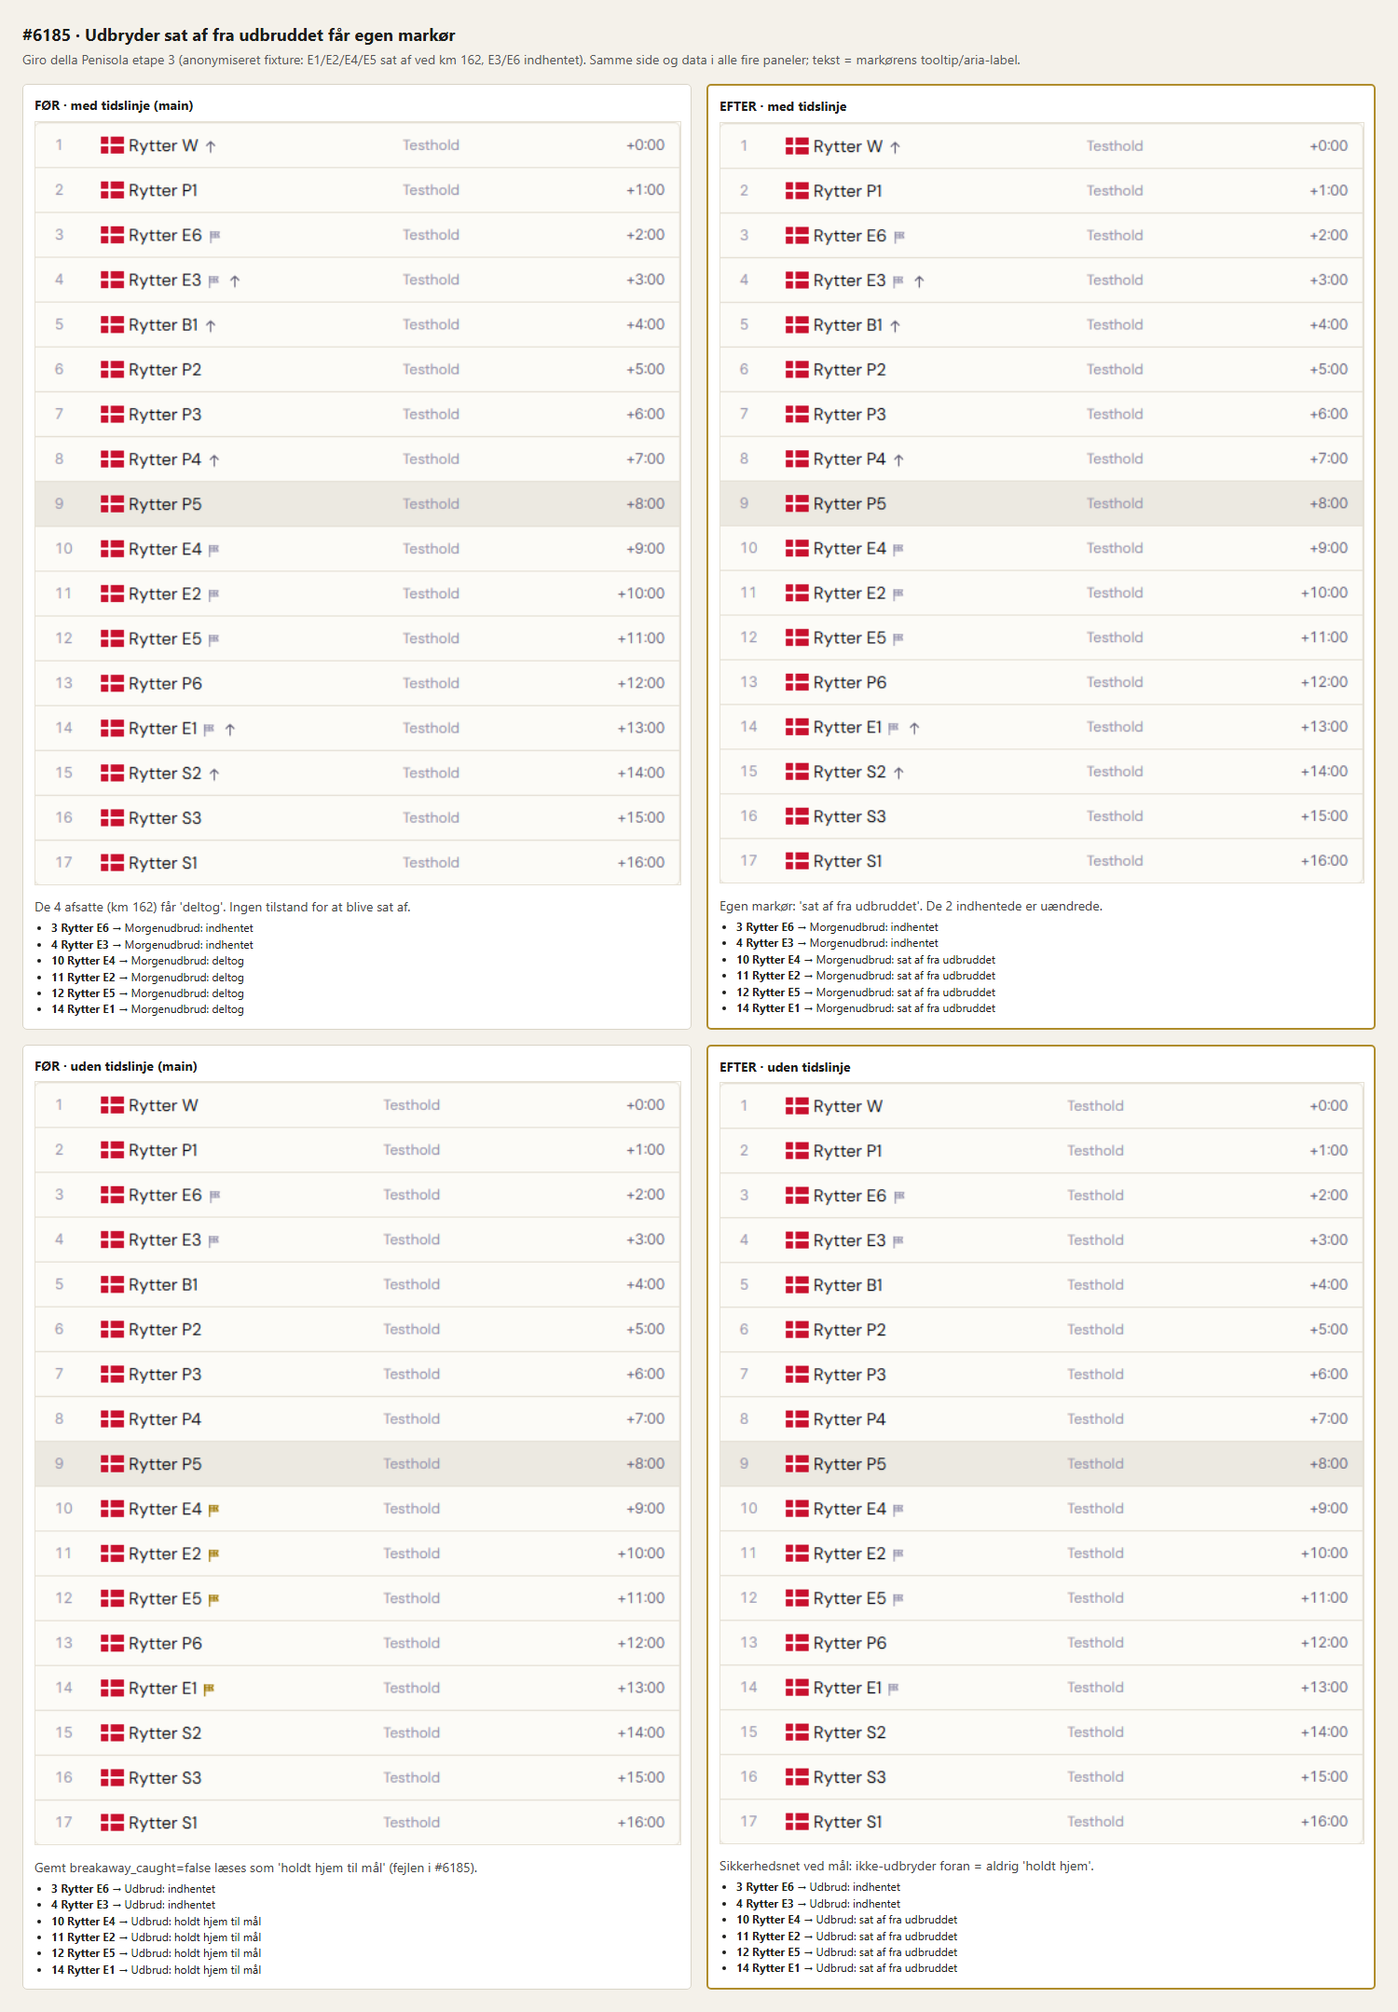
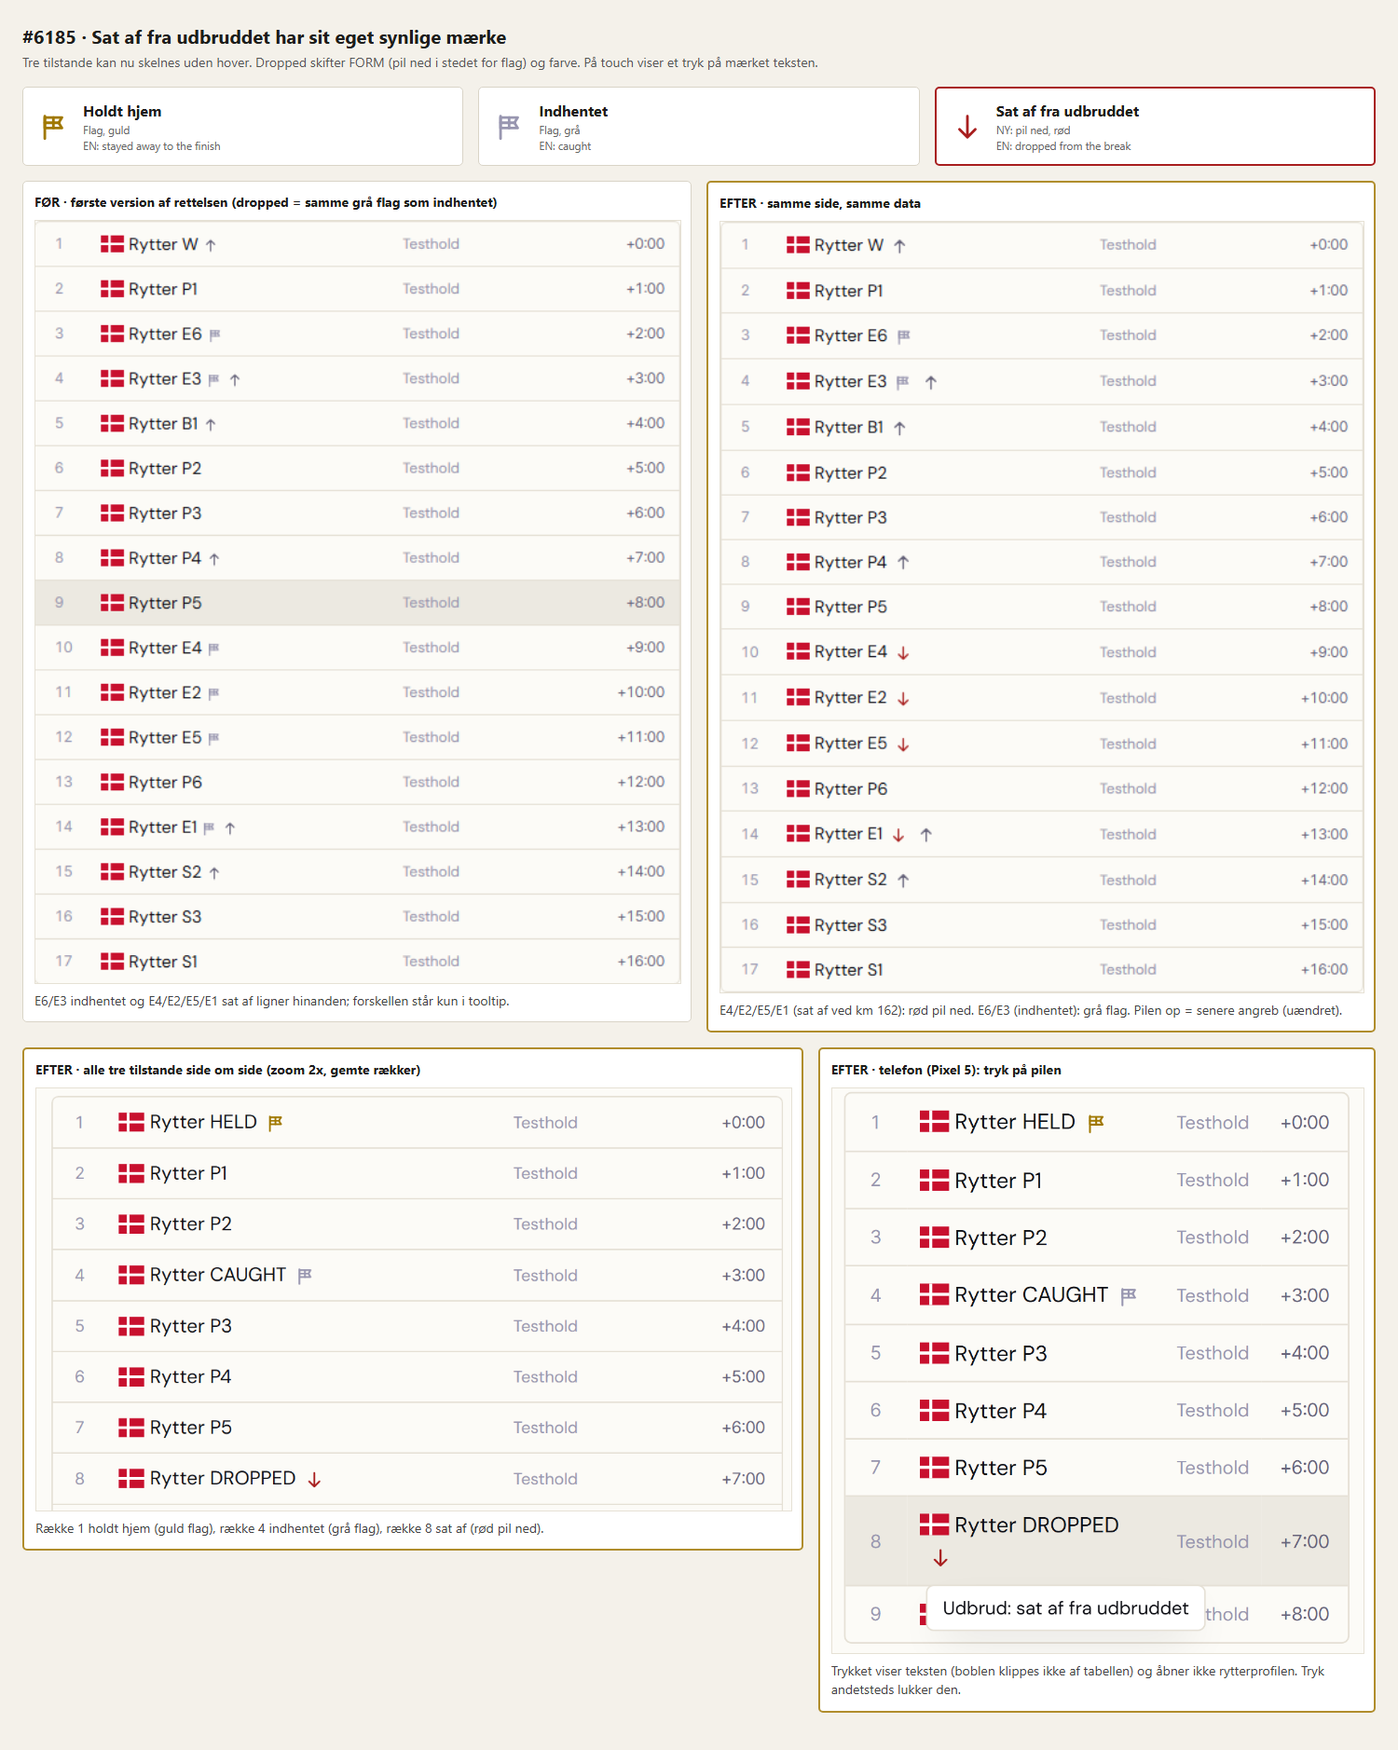
fix(race): "sat af fra udbruddet" faar eget synligt maerke (Refs #6185)
Dropped escapees used the same grey flag as caught, so the three states
(held home / caught / dropped) only differed in the tooltip. Dropped now
has its own icon SHAPE (arrow down, red) next to the gold flag (held home)
and the grey flag (caught). breakawayMarkerState returns icon + tone.

Touch: the marker is focusable and a tap shows its text in a Tooltip-styled
bubble rendered in a Portal (the result table scroller clipped it), without
opening the rider link. Hover and focus still work on desktop. aria-label
is kept. The later-attack marker gets the same tap behaviour.

Tests: unit test for distinct icon/tone/label per state; e2e for the three
states side by side and for tap showing the text inside the viewport.
New before/after image in pr-screens/6185.

diff --git a/frontend/tests/e2e/6185-dropped-breakaway-marker.spec.ts b/frontend/tests/e2e/6185-dropped-breakaway-marker.spec.ts
@@ -19,21 +19,22 @@ const results = riders.map(([id, rank], index) => {
 });
 const timeline = { timeline_version: 2, stage_number: 1, events: PENISOLA_STAGE3_EVENTS };
 
-async function prepareRace(page: Page, { withTimeline }: { withTimeline: boolean }) {
+async function prepareRace(page: Page, { withTimeline, rows = results }: { withTimeline: boolean; rows?: typeof results }) {
   await stabilizePage(page);
   await installNetworkMocks(page);
   await page.route("**/rest/v1/races**", route => {
     const race = { id: "race-6185", name: "Testetape · sat af fra udbruddet", race_type: "stage_race", race_class: "TourFrance", stages: 1, stages_completed: 1, edition_year: 2026, status: "completed", season: { id: "season-6185", number: 1 }, pool_race: null };
     return json(route, (route.request().headers().accept || "").includes("vnd.pgrst.object") ? race : [race]);
   });
-  await page.route("**/rest/v1/race_results**", raceResultsRoute(results));
+  await page.route("**/rest/v1/race_results**", raceResultsRoute(rows));
   await page.route("**/rest/v1/race_stage_profiles**", route => json(route, [{ ...MOUNTAIN_STAGE_PROFILE, stage_number: 1 }]));
   await page.route("**/rest/v1/race_stage_passages**", route => json(route, []));
   await page.route("**/api/races/*/timeline**", route => withTimeline ? json(route, timeline) : route.fulfill({ status: 404, body: "{}" }));
   await login(page);
   await page.goto("/races/race-6185?stage=1");
   await expect(page.getByRole("heading", { name: "Etape 1 · målrækkefølge", exact: true })).toBeVisible();
-  await page.getByRole("button", { name: /^Vis alle/ }).click();
+  const showAll = page.getByRole("button", { name: /^Vis alle/ });
+  if (await showAll.count()) await showAll.click();
 }
 
 test("#6185 dropped escapees get their own marker, never 'held home'", async ({ page }, testInfo) => {
@@ -49,4 +50,67 @@ test("#6185 without a timeline the stored rows still never read as 'held home'",
   await expect(page.locator('[aria-label="Udbrud: sat af fra udbruddet"]')).toHaveCount(4);
   await expect(page.locator('[aria-label="Udbrud: indhentet"]')).toHaveCount(2);
   await expect(page.locator('[aria-label="Udbrud: holdt hjem til mål"]')).toHaveCount(0);
+});
+
+// Held home / caught / dropped, side by side from stored rows (no timeline): one
+// escapee wins, one is caught, one is dropped. Tail rows are plain riders.
+const stateRows = [
+  ["held", 1, { in_breakaway: true, breakaway_caught: false, breakaway_dropped: false }],
+  ["p1", 2, {}], ["p2", 3, {}],
+  ["caught", 4, { in_breakaway: true, breakaway_caught: true }],
+  ["p3", 5, {}], ["p4", 6, {}], ["p5", 7, {}],
+  ["dropped", 8, { in_breakaway: true, breakaway_caught: false, breakaway_dropped: true }],
+  ["p6", 9, {}],
+].map(([id, rank, flags]) => ({
+  id: `s-${id}`, stage_number: 1, result_type: "stage", rank, rider_id: id, rider_name: `Rytter ${String(id).toUpperCase()}`,
+  team_id: "team-x", team_name: "Testhold", finish_time: `+${Number(rank) - 1}:00`, points_earned: 0, prize_money: 0,
+  rider: { id, firstname: "Rytter", lastname: String(id).toUpperCase(), nationality_code: "dk", team: { id: "team-x", name: "Testhold" } },
+  in_breakaway: false, breakaway_caught: false, ...(flags as object),
+})) as typeof results;
+
+test("#6185 held home, caught and dropped differ in icon shape and tone (no hover needed)", async ({ page }, testInfo) => {
+  await prepareRace(page, { withTimeline: false, rows: stateRows });
+  const held = page.locator('[aria-label="Udbrud: holdt hjem til mål"]');
+  const caught = page.locator('[aria-label="Udbrud: indhentet"]');
+  const dropped = page.locator('[aria-label="Udbrud: sat af fra udbruddet"]');
+  await expect(held).toHaveCount(1);
+  await expect(caught).toHaveCount(1);
+  await expect(dropped).toHaveCount(1);
+  const look = (marker: typeof held) => marker.evaluate((el) => ({ color: getComputedStyle(el).color, shape: el.querySelector("svg path")!.getAttribute("d") }));
+  const [h, c, d] = [await look(held), await look(caught), await look(dropped)];
+  // Dropped leaves the flag SHAPE (not only the colour); the three tones are all distinct.
+  expect(d.shape).not.toBe(h.shape);
+  expect(d.shape).not.toBe(c.shape);
+  expect(new Set([h.color, c.color, d.color]).size).toBe(3);
+  if (process.env.CZ_REVIEW_SCREENS === "1") {
+    // Zoomed crop of the three rows for the PR before/after image.
+    await page.setViewportSize({ width: 2560, height: 2000 });
+    await page.evaluate(() => { document.body.style.zoom = "2"; });
+    const first = (await page.getByText("Rytter HELD", { exact: true }).boundingBox())!;
+    const last = (await page.getByText("Rytter DROPPED", { exact: true }).boundingBox())!;
+    const docY = await page.evaluate(() => window.scrollY);
+    await page.screenshot({ path: testInfo.outputPath("6185-three-states.png"), fullPage: true, clip: { x: Math.max(0, first.x - 220), y: docY + first.y - 30, width: 1380, height: last.y + last.height - first.y + 60 } });
+  }
+});
+
+test("#6185 a tap on the dropped marker shows its text and does not open the rider", async ({ page }, testInfo) => {
+  await prepareRace(page, { withTimeline: false, rows: stateRows });
+  const url = page.url();
+  const marker = page.locator('[aria-label="Udbrud: sat af fra udbruddet"]');
+  const bubble = page.getByRole("tooltip");
+  await expect(bubble).toHaveCount(0);
+  await marker.click();
+  await expect(marker).toBeFocused();
+  await expect(bubble).toHaveText("Udbrud: sat af fra udbruddet");
+  await expect(bubble).toHaveCSS("opacity", "1");
+  // The bubble is never clipped by the result table: fully inside the viewport.
+  const box = (await bubble.boundingBox())!;
+  const viewport = page.viewportSize()!;
+  expect(box.x).toBeGreaterThanOrEqual(0);
+  expect(box.x + box.width).toBeLessThanOrEqual(viewport.width);
+  expect(page.url()).toBe(url);
+  if (process.env.CZ_REVIEW_SCREENS === "1") await page.screenshot({ path: testInfo.outputPath("6185-tap.png") });
+  // Tapping elsewhere closes it again.
+  await page.getByRole("heading", { name: "Etape 1 · målrækkefølge", exact: true }).click();
+  await expect(bubble).toHaveCount(0);
 });

diff --git a/frontend/src/pages/RaceDetailPage.jsx b/frontend/src/pages/RaceDetailPage.jsx
@@ -14,6 +14,8 @@ import { Flag } from "../components/Flag";
 import {
   FlagIcon,
   ArrowUpIcon,
+  ArrowDownIcon,
+  Portal,
   PageLoader,
   Button,
   CategoryTag,
@@ -35,6 +37,7 @@ import {
 } from "../components/ui";
 import { WRAP, SCROLLER } from "../components/ui/dataTableStyles.js";
 import { buttonClass } from "../components/ui/buttonStyles.js";
+import { tooltipClass } from "../components/ui/tooltipStyles.js";
 import { formatNumber } from "../lib/intl";
 import { resultEntity } from "../lib/raceResultEntity.js";
 import { buildRaceRecap } from "../lib/raceRecap.js";
@@ -199,8 +202,60 @@ function riderName(res) {
   return res.rider_name || "—";
 }
 
+// #6185: ikon-FORM + tone pr. tilstand (klassenavne ordret, så Tailwinds scanner finder dem).
+const BREAKAWAY_MARKER_ICON = { flag: FlagIcon, dropped: ArrowDownIcon };
+const BREAKAWAY_MARKER_TONE = { accent: "text-cz-accent-t", muted: "text-cz-3", danger: "text-cz-danger" };
+
+// #6185: markøren er tap-tilgængelig på touch. Markøren er fokuserbar (tabIndex),
+// så et tryk fokuserer den og viser teksten; hover/fokus virker stadig på desktop.
+// Boblen bruger Tooltip-stilen (tooltipClass) men renderes i en Portal med fixed
+// position (følger markøren ved scroll/resize): resultattabellens scroller klipper
+// ellers boblen (mobil, sidste række).
+// preventDefault stopper at trykket navigerer via RiderLink-ankeret markøren ligger i.
+function MarkerTip({ label, className = "", children }) {
+  const ref = useRef(null);
+  const [pos, setPos] = useState(null);
+  const show = useCallback(() => {
+    const rect = ref.current?.getBoundingClientRect();
+    if (!rect) return;
+    const maxWidth = Math.min(224, window.innerWidth - 16);
+    setPos({ left: Math.max(8, Math.min(rect.left, window.innerWidth - maxWidth - 8)), top: rect.bottom, maxWidth });
+  }, []);
+  const hide = useCallback(() => setPos(null), []);
+  useEffect(() => {
+    if (!pos) return undefined;
+    const onKey = (e) => { if (e.key === "Escape") hide(); };
+    window.addEventListener("scroll", show, true);
+    window.addEventListener("resize", show);
+    document.addEventListener("keydown", onKey);
+    return () => {
+      window.removeEventListener("scroll", show, true);
+      window.removeEventListener("resize", show);
+      document.removeEventListener("keydown", onKey);
+    };
+  }, [pos, show, hide]);
+  return (
+    <span className="ms-1 inline-flex align-middle">
+      <span ref={ref} role="img" tabIndex={0} aria-label={label}
+        onMouseEnter={show} onMouseLeave={hide} onFocus={show} onBlur={hide}
+        onClick={(e) => { e.preventDefault(); e.stopPropagation(); show(); }}
+        className={`inline-flex cursor-help rounded-sm p-0.5 focus:outline-none focus-visible:ring-1 focus-visible:ring-cz-accent ${className}`}>
+        {children}
+      </span>
+      {pos && (
+        <Portal>
+          <span role="tooltip" className={`${tooltipClass({ side: "bottom" })} whitespace-normal`}
+            style={{ position: "fixed", left: pos.left, top: pos.top, right: "auto", bottom: "auto", transform: "none", maxWidth: pos.maxWidth, opacity: 1 }}>
+            {label}
+          </span>
+        </Portal>
+      )}
+    </span>
+  );
+}
+
 // #1499 Deskriptiv udbruds-markør: vises kun for ryttere der var i (morgen-)udbruddet.
-// Holdt hjem (survived) = accent-toned; indhentet (caught) = dæmpet. Tooltip via title.
+// #6185: holdt hjem = accent-flag; indhentet = dæmpet flag; sat af = rød pil ned.
 function BreakawayMarker({ result, t, history = null }) {
   const participation = participationForResult(result, history);
   if (!participation) return null;
@@ -208,18 +263,18 @@ function BreakawayMarker({ result, t, history = null }) {
   // #6185: tre tilstande (indhentet / sat af / holdt hjem) — se breakawayMarkerState.
   const markerState = breakawayMarkerState(participation);
   const label = t(markerState.labelKey);
+  const StateIcon = BREAKAWAY_MARKER_ICON[markerState.icon] ?? FlagIcon;
   return (
     <>
       {participation.morning && (
-        <span className={`ms-1 inline-flex align-middle ${markerState.muted ? "text-cz-3" : "text-cz-accent-t"}`}
-          title={`${markerLabel}: ${label}`} aria-label={`${markerLabel}: ${label}`}>
-          <FlagIcon size={13} aria-hidden="true" />
-        </span>
+        <MarkerTip label={`${markerLabel}: ${label}`} className={BREAKAWAY_MARKER_TONE[markerState.tone]}>
+          <StateIcon size={15} aria-hidden="true" />
+        </MarkerTip>
       )}
       {participation.laterAttack && (
-        <span className="ms-1 inline-flex align-middle text-cz-2" title={t("detail.breakaway.laterAttack")} aria-label={t("detail.breakaway.laterAttack")}>
-          <ArrowUpIcon size={13} aria-hidden="true" />
-        </span>
+        <MarkerTip label={t("detail.breakaway.laterAttack")} className="text-cz-2">
+          <ArrowUpIcon size={15} aria-hidden="true" />
+        </MarkerTip>
       )}
     </>
   );

diff --git a/frontend/src/lib/raceParticipationMarkers.test.ts b/frontend/src/lib/raceParticipationMarkers.test.ts
@@ -51,12 +51,12 @@ test("#6185 anchor: Penisola stage 3 dropped escapees get the dropped marker, ne
     const participation = participationForResult({ rider_id: id, in_breakaway: true, breakaway_caught: false }, history);
     assert.equal(participation?.dropped, true, id);
     assert.equal(participation?.survived, false, id);
-    assert.deepEqual(breakawayMarkerState(participation!), { labelKey: "detail.breakaway.dropped", muted: true });
+    assert.deepEqual(breakawayMarkerState(participation!), { labelKey: "detail.breakaway.dropped", muted: true, icon: "dropped", tone: "danger" });
     assert.deepEqual(participationFlagsForResult({ rider_id: id, in_breakaway: true, breakaway_caught: false }, history!), { in_breakaway: true, breakaway_caught: null, breakaway_dropped: true });
   }
   for (const id of PENISOLA_CAUGHT) {
     const participation = participationForResult({ rider_id: id, in_breakaway: true, breakaway_caught: true }, history);
-    assert.deepEqual(breakawayMarkerState(participation!), { labelKey: "detail.breakaway.caught", muted: true });
+    assert.deepEqual(breakawayMarkerState(participation!), { labelKey: "detail.breakaway.caught", muted: true, icon: "flag", tone: "muted" });
   }
 });
 
@@ -66,7 +66,7 @@ test("#6185 without a timeline a persisted dropped flag still wins over 'held ho
   assert.equal(breakawayMarkerState(legacyDropped!).labelKey, "detail.breakaway.dropped");
   // Not yet assessed (NULL) keeps today's legacy reading.
   const unknown = participationForResult({ rider_id: "x", in_breakaway: true, breakaway_caught: false, breakaway_dropped: null }, null);
-  assert.deepEqual(breakawayMarkerState(unknown!), { labelKey: "detail.breakaway.survived", muted: false });
+  assert.deepEqual(breakawayMarkerState(unknown!), { labelKey: "detail.breakaway.survived", muted: false, icon: "flag", tone: "accent" });
   // A caught row is never relabelled as dropped.
   const caught = participationForResult({ rider_id: "y", in_breakaway: true, breakaway_caught: true, breakaway_dropped: true }, null);
   assert.equal(breakawayMarkerState(caught!).labelKey, "detail.breakaway.caught");
@@ -101,7 +101,7 @@ test("#6185 timeline 'survived' + finish safety net reads as caught, same as the
   assert.equal(breakawayMarkerState(participationForResult(netted, history)!).labelKey, "detail.breakaway.caught");
   // No non-escapee ahead: the engine's verdict stands.
   const held = participationForResult({ rider_id: "morning", in_breakaway: true, breakaway_caught: false, breakaway_dropped: false }, history);
-  assert.deepEqual(breakawayMarkerState(held!), { labelKey: "detail.breakaway.survived", muted: false });
+  assert.deepEqual(breakawayMarkerState(held!), { labelKey: "detail.breakaway.survived", muted: false, icon: "flag", tone: "accent" });
 });
 
 test("#6185 the dropped marker has EN and DA copy", async () => {
@@ -130,4 +130,18 @@ test("#6185 finish safety net on stored rows: uncaught escapee behind a non-esca
   assert.equal(held[0].breakaway_dropped, undefined, "stage 1: held on");
   assert.equal(held[3].breakaway_dropped, true, "stage 2 is its own group");
   assert.deepEqual(withFinishSafetyNet(null), []);
+});
+
+test("#6185 the three marker states differ in icon SHAPE or tone, so they read apart without hover", () => {
+  const base = { morning: true, laterAttack: false, verified: true };
+  const held = breakawayMarkerState({ ...base, caught: false, survived: true, dropped: false });
+  const caught = breakawayMarkerState({ ...base, caught: true, survived: false, dropped: false });
+  const dropped = breakawayMarkerState({ ...base, caught: false, survived: false, dropped: true });
+  assert.notEqual(dropped.icon, held.icon);
+  assert.notEqual(dropped.icon, caught.icon);
+  assert.equal(new Set([held.tone, caught.tone, dropped.tone]).size, 3);
+  assert.equal(new Set([held.labelKey, caught.labelKey, dropped.labelKey]).size, 3);
+  // Only the dropped state leaves the flag shape.
+  assert.equal(held.icon, "flag");
+  assert.equal(caught.icon, "flag");
 });

diff --git a/frontend/src/lib/raceParticipationMarkers.ts b/frontend/src/lib/raceParticipationMarkers.ts
@@ -68,12 +68,21 @@ export function withFinishSafetyNet<T extends RankedResultRow>(rows: readonly T[
   });
 }
 
-/** #6185: which label the morning-break marker shows, and whether it is muted. */
-export function breakawayMarkerState(participation: ResultParticipation): { labelKey: string; muted: boolean } {
-  if (participation.caught) return { labelKey: "detail.breakaway.caught", muted: true };
-  if (participation.dropped) return { labelKey: "detail.breakaway.dropped", muted: true };
-  if (participation.verified && !participation.survived) return { labelKey: "detail.breakaway.participated", muted: true };
-  return { labelKey: "detail.breakaway.survived", muted: false };
+export type BreakawayMarkerIcon = "flag" | "dropped";
+export type BreakawayMarkerTone = "accent" | "muted" | "danger";
+export type BreakawayMarkerState = { labelKey: string; muted: boolean; icon: BreakawayMarkerIcon; tone: BreakawayMarkerTone };
+
+/**
+ * #6185: which label, icon and tone the morning-break marker shows. "Dropped
+ * from the break" has its own icon SHAPE (arrow down, not the flag) and the
+ * danger tone, so held home / caught / dropped read apart without hover and
+ * on touch. Held home = accent flag, caught = muted flag, dropped = red arrow.
+ */
+export function breakawayMarkerState(participation: ResultParticipation): BreakawayMarkerState {
+  if (participation.caught) return { labelKey: "detail.breakaway.caught", muted: true, icon: "flag", tone: "muted" };
+  if (participation.dropped) return { labelKey: "detail.breakaway.dropped", muted: true, icon: "dropped", tone: "danger" };
+  if (participation.verified && !participation.survived) return { labelKey: "detail.breakaway.participated", muted: true, icon: "flag", tone: "muted" };
+  return { labelKey: "detail.breakaway.survived", muted: false, icon: "flag", tone: "accent" };
 }
 
 export function participationFlagsForResult(result: ResultMarkerRow, history: ParticipationHistory): { in_breakaway: boolean; breakaway_caught: boolean | null; breakaway_dropped: boolean } {
